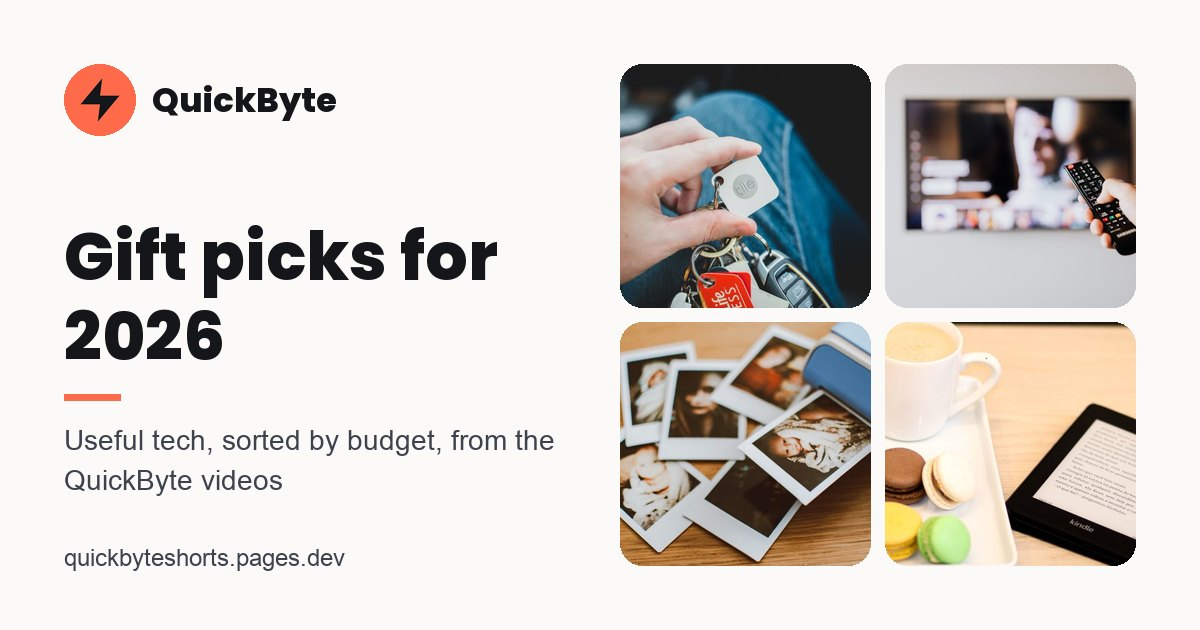
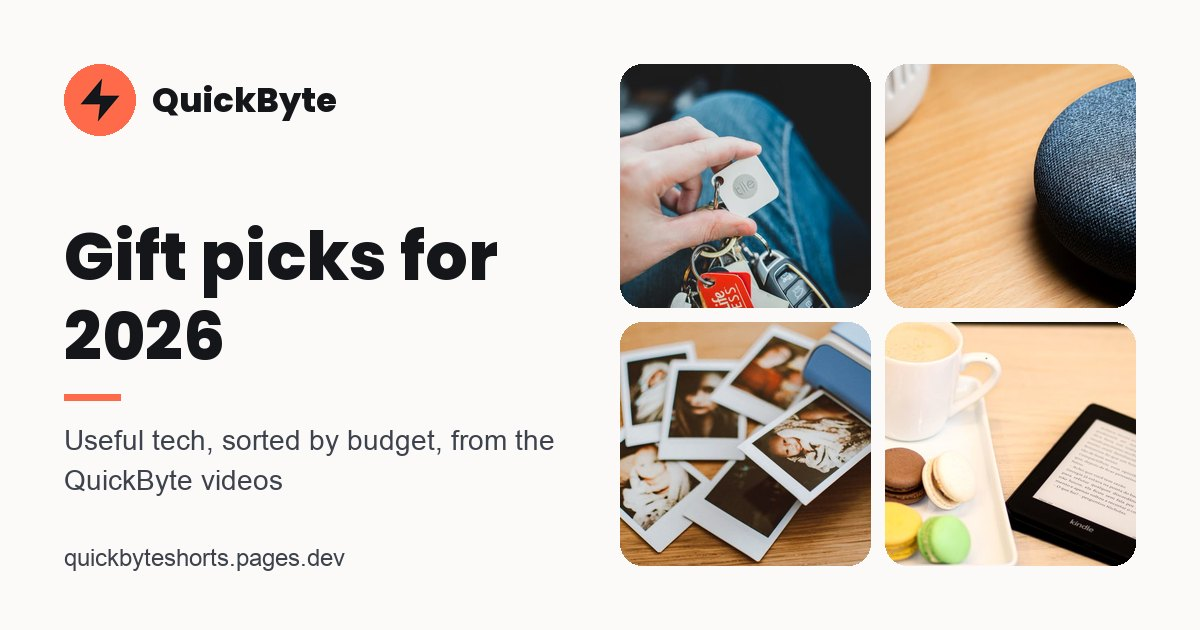
Automated cycle: update landing page

Changed region(s): [[0.7092, 0.0905, 0.9558, 0.5127]]

diff --git a/docs/index.html b/docs/index.html
@@ -89,7 +89,7 @@ footer{color:var(--muted);font-size:.82rem;text-align:center;padding:24px 20px 3
 footer a{color:inherit}
 @media (max-width:520px){.season{font-size:1.45rem}.wrap{padding-top:26px}.feature .name{font-size:1.15rem}}
 </style>
-<script type="application/ld+json">{"@context": "https://schema.org", "@graph": [{"@type": "WebSite", "@id": "https://quickbyteshorts.pages.dev/#website", "name": "QuickByte", "url": "https://quickbyteshorts.pages.dev/", "description": "Short videos on which tech is worth buying, and which isn't"}, {"@type": "ItemList", "name": "Gift picks for 2026", "numberOfItems": 17, "itemListElement": [{"@type": "ListItem", "position": 1, "name": "ThermoPro TP19H instant-read thermometer", "url": "https://quickbyteshorts.pages.dev/#pick-thermopro-tp19h"}, {"@type": "ListItem", "position": 2, "name": "Tile Mate tracker", "url": "https://quickbyteshorts.pages.dev/#pick-tile-mate"}, {"@type": "ListItem", "position": 3, "name": "Anker Nano 30W USB-C charger", "url": "https://quickbyteshorts.pages.dev/#pick-anker-nano-charger"}, {"@type": "ListItem", "position": 4, "name": "UGREEN 240W USB-C cable (USB4)", "url": "https://quickbyteshorts.pages.dev/#pick-ugreen-usb4-cable"}, {"@type": "ListItem", "position": 5, "name": "4K streaming stick", "url": "https://quickbyteshorts.pages.dev/#pick-streaming-stick"}, {"@type": "ListItem", "position": 6, "name": "Belkin Qi2 magnetic charger", "url": "https://quickbyteshorts.pages.dev/#pick-belkin-qi2-charger"}, {"@type": "ListItem", "position": 7, "name": "Redragon K552 mechanical keyboard", "url": "https://quickbyteshorts.pages.dev/#pick-redragon-k552-keyboard"}, {"@type": "ListItem", "position": 8, "name": "Anker Nano power bank (10,000mAh)", "url": "https://quickbyteshorts.pages.dev/#pick-anker-nano-power-bank"}, {"@type": "ListItem", "position": 9, "name": "Kodak Step mini photo printer", "url": "https://quickbyteshorts.pages.dev/#pick-kodak-step-printer"}, {"@type": "ListItem", "position": 10, "name": "Soundcore Liberty 4 NC earbuds", "url": "https://quickbyteshorts.pages.dev/#pick-soundcore-liberty-4-nc"}, {"@type": "ListItem", "position": 11, "name": "Kindle Paperwhite", "url": "https://quickbyteshorts.pages.dev/#pick-kindle-paperwhite"}, {"@type": "ListItem", "position": 12, "name": "MagicFiber microfiber cloths (6-pack)", "url": "https://quickbyteshorts.pages.dev/#pick-magicfiber-cloths"}, {"@type": "ListItem", "position": 13, "name": "Echo Pop or Nest Mini", "url": "https://quickbyteshorts.pages.dev/#pick-smart-speaker"}, {"@type": "ListItem", "position": 14, "name": "Cosori Pro LE 5-quart air fryer", "url": "https://quickbyteshorts.pages.dev/#pick-cosori-air-fryer-5qt"}, {"@type": "ListItem", "position": 15, "name": "Baratza Encore burr grinder", "url": "https://quickbyteshorts.pages.dev/#pick-baratza-encore"}, {"@type": "ListItem", "position": 16, "name": "Wi-Fi photo frame", "url": "https://quickbyteshorts.pages.dev/#pick-wifi-photo-frame"}, {"@type": "ListItem", "position": 17, "name": "Samsung 870 EVO SSD (500GB)", "url": "https://quickbyteshorts.pages.dev/#pick-samsung-870-evo-ssd"}]}]}</script>
+<script type="application/ld+json">{"@context": "https://schema.org", "@graph": [{"@type": "WebSite", "@id": "https://quickbyteshorts.pages.dev/#website", "name": "QuickByte", "url": "https://quickbyteshorts.pages.dev/", "description": "Short videos on which tech is worth buying, and which isn't"}, {"@type": "ItemList", "name": "Gift picks for 2026", "numberOfItems": 17, "itemListElement": [{"@type": "ListItem", "position": 1, "name": "ThermoPro TP19H instant-read thermometer", "url": "https://quickbyteshorts.pages.dev/#pick-thermopro-tp19h"}, {"@type": "ListItem", "position": 2, "name": "Tile Mate tracker", "url": "https://quickbyteshorts.pages.dev/#pick-tile-mate"}, {"@type": "ListItem", "position": 3, "name": "Anker Nano 30W USB-C charger", "url": "https://quickbyteshorts.pages.dev/#pick-anker-nano-charger"}, {"@type": "ListItem", "position": 4, "name": "UGREEN 240W USB-C cable (USB4)", "url": "https://quickbyteshorts.pages.dev/#pick-ugreen-usb4-cable"}, {"@type": "ListItem", "position": 5, "name": "Echo Pop or Nest Mini", "url": "https://quickbyteshorts.pages.dev/#pick-smart-speaker"}, {"@type": "ListItem", "position": 6, "name": "4K streaming stick", "url": "https://quickbyteshorts.pages.dev/#pick-streaming-stick"}, {"@type": "ListItem", "position": 7, "name": "Belkin Qi2 magnetic charger", "url": "https://quickbyteshorts.pages.dev/#pick-belkin-qi2-charger"}, {"@type": "ListItem", "position": 8, "name": "Redragon K552 mechanical keyboard", "url": "https://quickbyteshorts.pages.dev/#pick-redragon-k552-keyboard"}, {"@type": "ListItem", "position": 9, "name": "Anker Nano power bank (10,000mAh)", "url": "https://quickbyteshorts.pages.dev/#pick-anker-nano-power-bank"}, {"@type": "ListItem", "position": 10, "name": "Kodak Step mini photo printer", "url": "https://quickbyteshorts.pages.dev/#pick-kodak-step-printer"}, {"@type": "ListItem", "position": 11, "name": "Soundcore Liberty 4 NC earbuds", "url": "https://quickbyteshorts.pages.dev/#pick-soundcore-liberty-4-nc"}, {"@type": "ListItem", "position": 12, "name": "Kindle Paperwhite", "url": "https://quickbyteshorts.pages.dev/#pick-kindle-paperwhite"}, {"@type": "ListItem", "position": 13, "name": "MagicFiber microfiber cloths (6-pack)", "url": "https://quickbyteshorts.pages.dev/#pick-magicfiber-cloths"}, {"@type": "ListItem", "position": 14, "name": "Cosori Pro LE 5-quart air fryer", "url": "https://quickbyteshorts.pages.dev/#pick-cosori-air-fryer-5qt"}, {"@type": "ListItem", "position": 15, "name": "Baratza Encore burr grinder", "url": "https://quickbyteshorts.pages.dev/#pick-baratza-encore"}, {"@type": "ListItem", "position": 16, "name": "Wi-Fi photo frame", "url": "https://quickbyteshorts.pages.dev/#pick-wifi-photo-frame"}, {"@type": "ListItem", "position": 17, "name": "Samsung 870 EVO SSD (500GB)", "url": "https://quickbyteshorts.pages.dev/#pick-samsung-870-evo-ssd"}]}]}</script>
 </head>
 <body>
 <div class="wrap">
@@ -98,18 +98,18 @@ footer a{color:inherit}
 <nav class="socials" aria-label="QuickByte on social media"><a href="https://www.youtube.com/@quickbytetips" target="_blank" rel="noopener me">YouTube</a><a href="https://www.tiktok.com/@quickbytetips" target="_blank" rel="noopener me">TikTok</a><a href="https://www.instagram.com/quickbytetips" target="_blank" rel="noopener me">Instagram</a></nav>
 <p class="disc">The Amazon links on this page are affiliate links. As an Amazon Associate I earn from qualifying purchases.</p>
 <main>
-<section class="latest" aria-labelledby="latest-h"><h2 id="latest-h">From today's video</h2><article class="feature"><div class="ph"><picture><source type="image/webp" srcset="img/2-5-inch-sata-ssd-500gb-480.webp 480w, img/2-5-inch-sata-ssd-500gb-800.webp 800w" sizes="(max-width:700px) calc(100vw - 40px), 500px"><img src="img/2-5-inch-sata-ssd-500gb.jpg" alt="" width="800" height="600" fetchpriority="high" decoding="async"></picture></div><div class="body">
+<section class="latest" aria-labelledby="latest-h"><h2 id="latest-h">From today's video</h2><article class="feature"><div class="ph"><picture><source type="image/webp" srcset="img/smart-speaker-480.webp 480w, img/smart-speaker-800.webp 800w" sizes="(max-width:700px) calc(100vw - 40px), 500px"><img src="img/smart-speaker.jpg" alt="" width="800" height="600" fetchpriority="high" decoding="async"></picture></div><div class="body">
+<h3 class="name">Echo Pop or Nest Mini</h3>
+<p class="seen">From the video: Echo or Nest? Pick the smart speaker that fits their home</p><p class="note">Small, cheap and genuinely useful for music, timers and lights. Pick the one that matches the phone they use.</p>
+<div class="row"><a class="buy" href="https://www.amazon.com/s?k=Echo+Pop+smart+speaker&amp;tag=quickbyte0f-20" target="_blank" rel="sponsored nofollow noopener">See it on Amazon</a><span class="paid">Paid link</span></div>
+</div></article><h2>Also from recent videos</h2><div class="grid wide"><article class="pick compact"><div class="ph"><picture><source type="image/webp" srcset="img/2-5-inch-sata-ssd-500gb-480.webp 480w, img/2-5-inch-sata-ssd-500gb-800.webp 800w" sizes="160px"><img src="img/2-5-inch-sata-ssd-500gb.jpg" alt="" width="800" height="600" loading="lazy" decoding="async"></picture></div><div class="body">
 <h3 class="name">Samsung 870 EVO SSD (500GB)</h3>
-<p class="seen">From the video: Don&#x27;t replace your slow old laptop until you check this one part</p><p class="note">The upgrade that makes an old laptop boot in seconds instead of minutes. Check that your laptop takes a 2.5-inch drive first.</p>
-<div class="row"><a class="buy" href="https://www.amazon.com/dp/B08QBMD6P4?tag=quickbyte0f-20" target="_blank" rel="sponsored nofollow noopener">See it on Amazon</a><span class="paid">Paid link</span></div>
-</div></article><h2>Also from recent videos</h2><div class="grid wide"><article class="pick compact"><div class="ph"><picture><source type="image/webp" srcset="img/4k-streaming-stick-480.webp 480w, img/4k-streaming-stick-800.webp 800w" sizes="160px"><img src="img/4k-streaming-stick.jpg" alt="" width="800" height="600" loading="lazy" decoding="async"></picture></div><div class="body">
+<p class="seen">From: Don&#x27;t replace your slow old laptop until you check this one part</p><p class="note">The upgrade that makes an old laptop boot in seconds instead of minutes. Check that your laptop takes a 2.5-inch drive first.</p>
+<div class="row"><a class="buy" href="https://www.amazon.com/dp/B08QBMD6P4?tag=quickbyte0f-20" target="_blank" rel="sponsored nofollow noopener">See it on Amazon</a><span class="paid">Paid link</span><a class="watch" href="https://www.youtube.com/shorts/JrS-6aeftQ0" target="_blank" rel="noopener">Watch the video</a></div>
+</div></article><article class="pick compact"><div class="ph"><picture><source type="image/webp" srcset="img/4k-streaming-stick-480.webp 480w, img/4k-streaming-stick-800.webp 800w" sizes="160px"><img src="img/4k-streaming-stick.jpg" alt="" width="800" height="600" loading="lazy" decoding="async"></picture></div><div class="body">
 <h3 class="name">4K streaming stick</h3>
 <p class="seen">From: Before you gift a streaming stick, check their TV</p><p class="note">The cheapest way to make an older or slow smart TV feel new. Roku, Fire TV and Google TV all have the big apps.</p>
 <div class="row"><a class="buy" href="https://www.amazon.com/s?k=4K+streaming+stick&amp;tag=quickbyte0f-20" target="_blank" rel="sponsored nofollow noopener">See it on Amazon</a><span class="paid">Paid link</span><a class="watch" href="https://www.youtube.com/shorts/GoPOhen3Wig" target="_blank" rel="noopener">Watch the video</a></div>
-</div></article><article class="pick compact"><div class="body">
-<h3 class="name">ThermoPro TP19H instant-read thermometer</h3>
-<p class="seen">From: Instant-read thermometer: the $20 one does most of the job</p><p class="note">Reads in a few seconds and has a backlit screen, so you stop guessing whether the chicken is done.</p>
-<div class="row"><a class="buy" href="https://www.amazon.com/dp/B07XXSYLL8?tag=quickbyte0f-20" target="_blank" rel="sponsored nofollow noopener">See it on Amazon</a><span class="paid">Paid link</span><a class="watch" href="https://www.youtube.com/shorts/eQn6qHeMhOY" target="_blank" rel="noopener">Watch the video</a></div>
 </div></article></div></section><h1 class="season" id="gifts">Gift picks for 2026</h1><p class="season-sub">Each pick comes from a QuickByte video (a few of those videos are still on the way). Useful things, sensibly priced, that we'd tell a friend to buy. Sorted by budget.</p><nav class="jump" aria-label="Budgets"><a href="#under-25">Under $25</a><a href="#under-50">Under $50</a><a href="#under-100">Under $100</a><a href="#worth-the-splurge">Worth the splurge</a></nav><h2 id="under-25">Under $25</h2><div class="grid"><article class="pick" id="pick-thermopro-tp19h"><div class="body">
 <h3 class="name">ThermoPro TP19H instant-read thermometer</h3>
 <p class="note">Reads in a few seconds and has a backlit screen, so you stop guessing whether the chicken is done.</p>
@@ -130,7 +130,11 @@ footer a{color:inherit}
 <h3 class="name">MagicFiber microfiber cloths (6-pack)</h3>
 <p class="note">The only thing that should touch a screen. Cheap, washable, and a solid stocking stuffer.</p>
 <div class="row"><a class="buy" href="https://www.amazon.com/dp/B0050R67U0?tag=quickbyte0f-20" target="_blank" rel="sponsored nofollow noopener">See it on Amazon</a><span class="paid">Paid link</span></div>
-</div></article></div><h2 id="under-50">Under $50</h2><div class="grid"><article class="pick" id="pick-streaming-stick"><div class="ph"><picture><source type="image/webp" srcset="img/4k-streaming-stick-480.webp 480w, img/4k-streaming-stick-800.webp 800w" sizes="(max-width:640px) calc(100vw - 40px), 320px"><img src="img/4k-streaming-stick.jpg" alt="" width="800" height="600" loading="lazy" decoding="async"></picture></div><div class="body">
+</div></article></div><h2 id="under-50">Under $50</h2><div class="grid"><article class="pick" id="pick-smart-speaker"><div class="ph"><picture><source type="image/webp" srcset="img/smart-speaker-480.webp 480w, img/smart-speaker-800.webp 800w" sizes="(max-width:640px) calc(100vw - 40px), 320px"><img src="img/smart-speaker.jpg" alt="" width="800" height="600" loading="lazy" decoding="async"></picture></div><div class="body">
+<h3 class="name">Echo Pop or Nest Mini</h3>
+<p class="note">Small, cheap and genuinely useful for music, timers and lights. Pick the one that matches the phone they use.</p>
+<div class="row"><a class="buy" href="https://www.amazon.com/s?k=Echo+Pop+smart+speaker&amp;tag=quickbyte0f-20" target="_blank" rel="sponsored nofollow noopener">See it on Amazon</a><span class="paid">Paid link</span></div>
+</div></article><article class="pick" id="pick-streaming-stick"><div class="ph"><picture><source type="image/webp" srcset="img/4k-streaming-stick-480.webp 480w, img/4k-streaming-stick-800.webp 800w" sizes="(max-width:640px) calc(100vw - 40px), 320px"><img src="img/4k-streaming-stick.jpg" alt="" width="800" height="600" loading="lazy" decoding="async"></picture></div><div class="body">
 <h3 class="name">4K streaming stick</h3>
 <p class="note">The cheapest way to make an older or slow smart TV feel new. Roku, Fire TV and Google TV all have the big apps.</p>
 <div class="row"><a class="buy" href="https://www.amazon.com/s?k=4K+streaming+stick&amp;tag=quickbyte0f-20" target="_blank" rel="sponsored nofollow noopener">See it on Amazon</a><span class="paid">Paid link</span><a class="watch" href="https://www.youtube.com/shorts/GoPOhen3Wig" target="_blank" rel="noopener">Watch the video</a></div>
@@ -146,10 +150,6 @@ footer a{color:inherit}
 <h3 class="name">Anker Nano power bank (10,000mAh)</h3>
 <p class="note">Built-in USB-C cable and 30W output, so it actually fast-charges a phone instead of trickling.</p>
 <div class="row"><a class="buy" href="https://www.amazon.com/dp/B0C9CJKCH3?tag=quickbyte0f-20" target="_blank" rel="sponsored nofollow noopener">See it on Amazon</a><span class="paid">Paid link</span><a class="watch" href="https://www.youtube.com/shorts/fx5Mr8gkuYM" target="_blank" rel="noopener">Watch the video</a></div>
-</div></article><article class="pick" id="pick-smart-speaker"><div class="ph"><picture><source type="image/webp" srcset="img/smart-speaker-480.webp 480w, img/smart-speaker-800.webp 800w" sizes="(max-width:640px) calc(100vw - 40px), 320px"><img src="img/smart-speaker.jpg" alt="" width="800" height="600" loading="lazy" decoding="async"></picture></div><div class="body">
-<h3 class="name">Echo Pop or Nest Mini</h3>
-<p class="note">Small, cheap and genuinely useful for music, timers and lights. Pick the one that matches the phone they use.</p>
-<div class="row"><a class="buy" href="https://www.amazon.com/s?k=Echo+Pop+smart+speaker&amp;tag=quickbyte0f-20" target="_blank" rel="sponsored nofollow noopener">See it on Amazon</a><span class="paid">Paid link</span></div>
 </div></article></div><h2 id="under-100">Under $100</h2><div class="grid"><article class="pick" id="pick-kodak-step-printer"><div class="ph"><picture><source type="image/webp" srcset="img/kodak-step-instant-photo-printer-zink-480.webp 480w, img/kodak-step-instant-photo-printer-zink-800.webp 800w" sizes="(max-width:640px) calc(100vw - 40px), 320px"><img src="img/kodak-step-instant-photo-printer-zink.jpg" alt="" width="800" height="600" loading="lazy" decoding="async"></picture></div><div class="body">
 <h3 class="name">Kodak Step mini photo printer</h3>
 <p class="note">Prints 2x3 sticky-back photos straight from a phone with no ink to buy, which teens use for journals and lockers.</p>
@@ -177,8 +177,8 @@ footer a{color:inherit}
 </div></article></div><h2 id="gear">More gear from the videos</h2><div class="grid"><article class="pick" id="pick-samsung-870-evo-ssd"><div class="ph"><picture><source type="image/webp" srcset="img/2-5-inch-sata-ssd-500gb-480.webp 480w, img/2-5-inch-sata-ssd-500gb-800.webp 800w" sizes="(max-width:640px) calc(100vw - 40px), 320px"><img src="img/2-5-inch-sata-ssd-500gb.jpg" alt="" width="800" height="600" loading="lazy" decoding="async"></picture></div><div class="body">
 <h3 class="name">Samsung 870 EVO SSD (500GB)</h3>
 <p class="note">The upgrade that makes an old laptop boot in seconds instead of minutes. Check that your laptop takes a 2.5-inch drive first.</p>
-<div class="row"><a class="buy" href="https://www.amazon.com/dp/B08QBMD6P4?tag=quickbyte0f-20" target="_blank" rel="sponsored nofollow noopener">See it on Amazon</a><span class="paid">Paid link</span></div>
-</div></article></div><p class="fine">We earn a small commission if you buy through these links, at no extra cost to you, and nobody pays to be on this page. Budget groups are based on typical prices when we chose each pick; Amazon shows the current price. Photos show the kind of product, not always the exact model.</p><h2 id="videos">Latest videos</h2><ul class="vids"><li><a href="https://www.youtube.com/shorts/GoPOhen3Wig" target="_blank" rel="noopener"><span>Before you gift a streaming stick, check their TV</span><span>Watch</span></a></li><li><a href="https://www.youtube.com/shorts/JX483yKjrTw" target="_blank" rel="noopener"><span>Wi-Fi 7 vs Wi-Fi 6: do you actually need the new router?</span><span>Watch</span></a></li><li><a href="https://www.youtube.com/shorts/eQn6qHeMhOY" target="_blank" rel="noopener"><span>Instant-read thermometer: the $20 one does most of the job</span><span>Watch</span></a></li><li><a href="https://www.youtube.com/shorts/JxijiXfsUYc" target="_blank" rel="noopener"><span>Mini photo printer gift: Zink or dye? Check the paper first</span><span>Watch</span></a></li><li><a href="https://www.youtube.com/shorts/Ob7KcX-3izw" target="_blank" rel="noopener"><span>You don&#x27;t need $250 earbuds for good noise cancelling</span><span>Watch</span></a></li><li><a href="https://www.youtube.com/shorts/m0ledpkvTUo" target="_blank" rel="noopener"><span>$80 vs $300 projector: what the extra money actually buys</span><span>Watch</span></a></li><li><a href="https://www.youtube.com/shorts/kRELuNMdWDQ" target="_blank" rel="noopener"><span>Cheap projector? The one spec that matters is ANSI lumens</span><span>Watch</span></a></li><li><a href="https://www.youtube.com/shorts/m6Fe35_G_mc" target="_blank" rel="noopener"><span>Qi2 vs MagSafe: do you need a new wireless charger?</span><span>Watch</span></a></li><li><a href="https://www.youtube.com/shorts/ZfM51qdsPx0" target="_blank" rel="noopener"><span>Kindle or a tablet: what to get the reader on your list</span><span>Watch</span></a></li><li><a href="https://www.youtube.com/shorts/HFDecg8Sfrk" target="_blank" rel="noopener"><span>Travel eSIM vs your carrier&#x27;s day pass: what to use abroad</span><span>Watch</span></a></li><li><a href="https://www.youtube.com/shorts/zlaf1SSanx8" target="_blank" rel="noopener"><span>AirTag or Tile? Check their phone before you buy one</span><span>Watch</span></a></li><li><a href="https://www.youtube.com/shorts/07cvN6GbG20" target="_blank" rel="noopener"><span>Your phone charges slowly because of the brick, not the cable</span><span>Watch</span></a></li></ul>
+<div class="row"><a class="buy" href="https://www.amazon.com/dp/B08QBMD6P4?tag=quickbyte0f-20" target="_blank" rel="sponsored nofollow noopener">See it on Amazon</a><span class="paid">Paid link</span><a class="watch" href="https://www.youtube.com/shorts/JrS-6aeftQ0" target="_blank" rel="noopener">Watch the video</a></div>
+</div></article></div><p class="fine">We earn a small commission if you buy through these links, at no extra cost to you, and nobody pays to be on this page. Budget groups are based on typical prices when we chose each pick; Amazon shows the current price. Photos show the kind of product, not always the exact model.</p><h2 id="videos">Latest videos</h2><ul class="vids"><li><a href="https://www.youtube.com/shorts/JrS-6aeftQ0" target="_blank" rel="noopener"><span>Don&#x27;t replace your slow old laptop until you check this one part</span><span>Watch</span></a></li><li><a href="https://www.youtube.com/shorts/GoPOhen3Wig" target="_blank" rel="noopener"><span>Before you gift a streaming stick, check their TV</span><span>Watch</span></a></li><li><a href="https://www.youtube.com/shorts/JX483yKjrTw" target="_blank" rel="noopener"><span>Wi-Fi 7 vs Wi-Fi 6: do you actually need the new router?</span><span>Watch</span></a></li><li><a href="https://www.youtube.com/shorts/eQn6qHeMhOY" target="_blank" rel="noopener"><span>Instant-read thermometer: the $20 one does most of the job</span><span>Watch</span></a></li><li><a href="https://www.youtube.com/shorts/JxijiXfsUYc" target="_blank" rel="noopener"><span>Mini photo printer gift: Zink or dye? Check the paper first</span><span>Watch</span></a></li><li><a href="https://www.youtube.com/shorts/Ob7KcX-3izw" target="_blank" rel="noopener"><span>You don&#x27;t need $250 earbuds for good noise cancelling</span><span>Watch</span></a></li><li><a href="https://www.youtube.com/shorts/m0ledpkvTUo" target="_blank" rel="noopener"><span>$80 vs $300 projector: what the extra money actually buys</span><span>Watch</span></a></li><li><a href="https://www.youtube.com/shorts/kRELuNMdWDQ" target="_blank" rel="noopener"><span>Cheap projector? The one spec that matters is ANSI lumens</span><span>Watch</span></a></li><li><a href="https://www.youtube.com/shorts/m6Fe35_G_mc" target="_blank" rel="noopener"><span>Qi2 vs MagSafe: do you need a new wireless charger?</span><span>Watch</span></a></li><li><a href="https://www.youtube.com/shorts/ZfM51qdsPx0" target="_blank" rel="noopener"><span>Kindle or a tablet: what to get the reader on your list</span><span>Watch</span></a></li><li><a href="https://www.youtube.com/shorts/HFDecg8Sfrk" target="_blank" rel="noopener"><span>Travel eSIM vs your carrier&#x27;s day pass: what to use abroad</span><span>Watch</span></a></li><li><a href="https://www.youtube.com/shorts/zlaf1SSanx8" target="_blank" rel="noopener"><span>AirTag or Tile? Check their phone before you buy one</span><span>Watch</span></a></li></ul>
 </main>
 </div>
 <footer>QuickByte &middot; @quickbytetips<br>As an Amazon Associate I earn from qualifying purchases. Amazon and the Amazon logo are trademarks of
